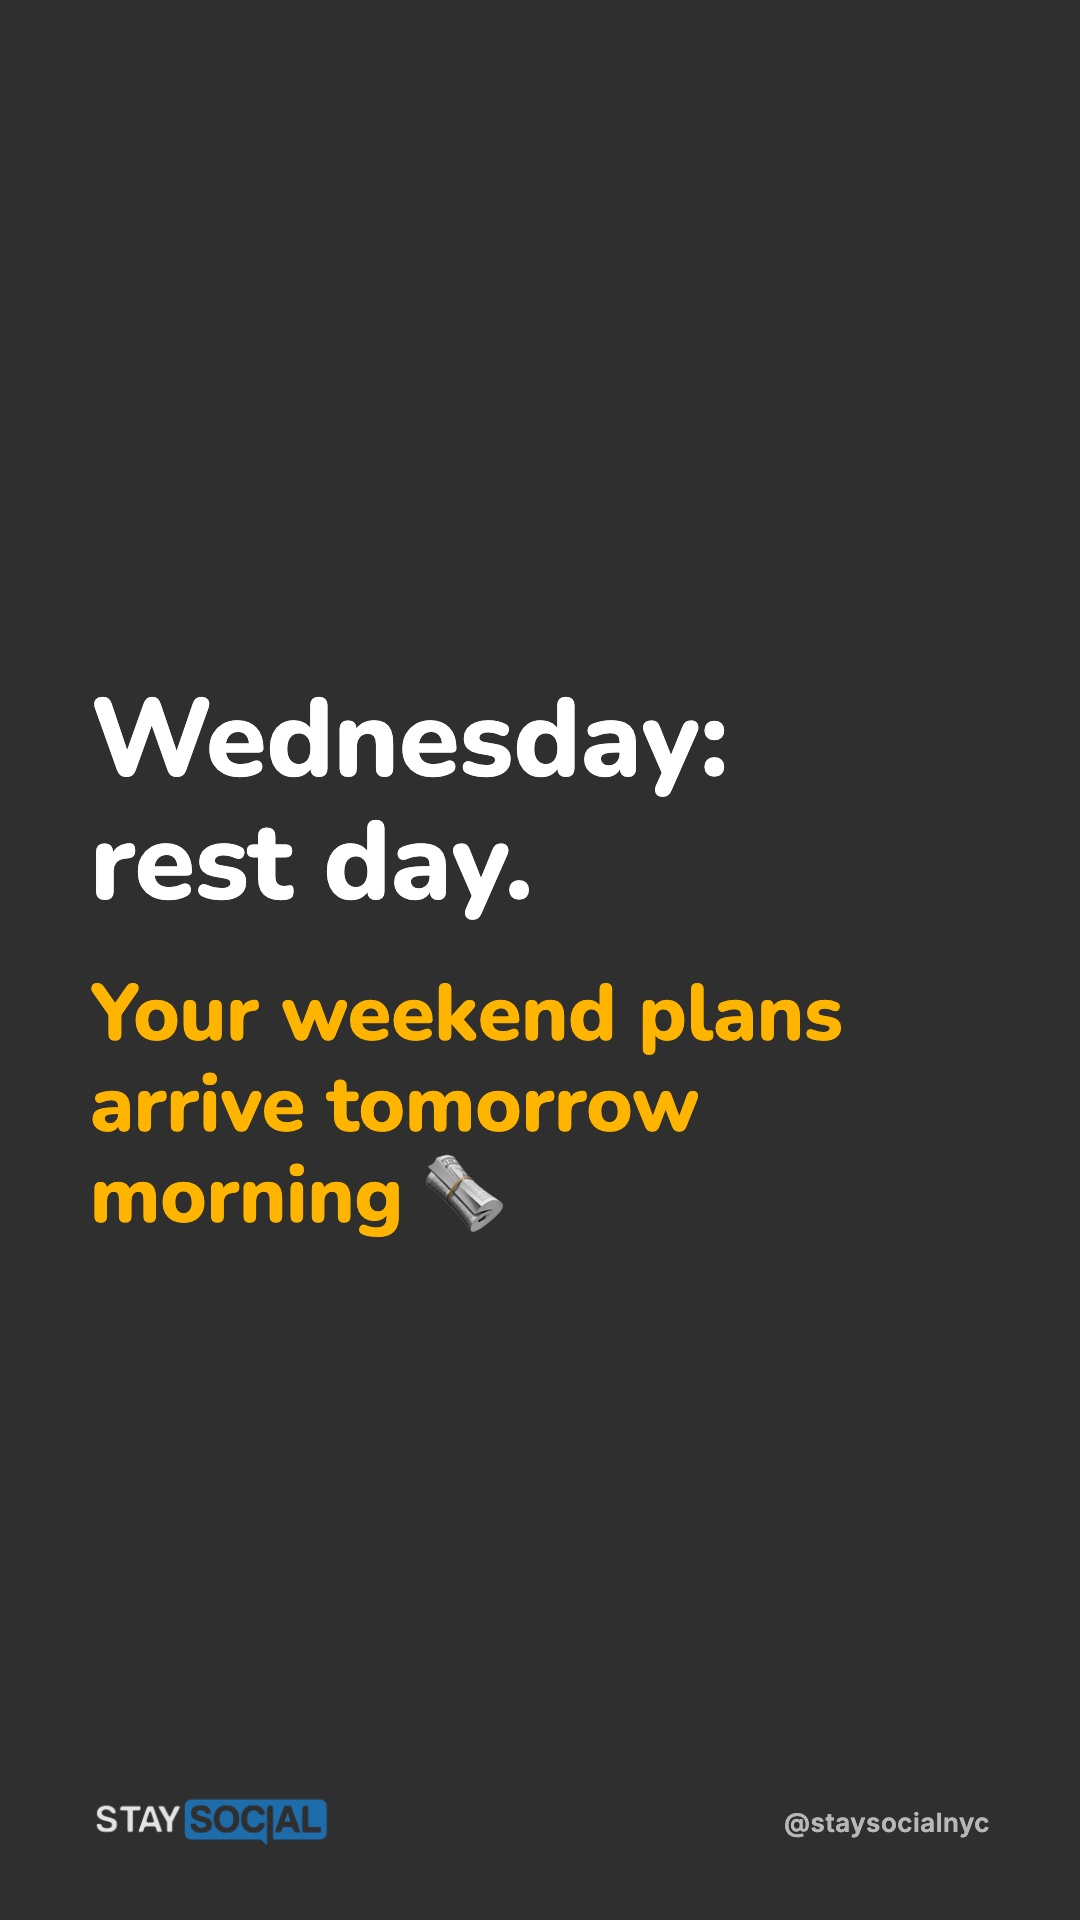
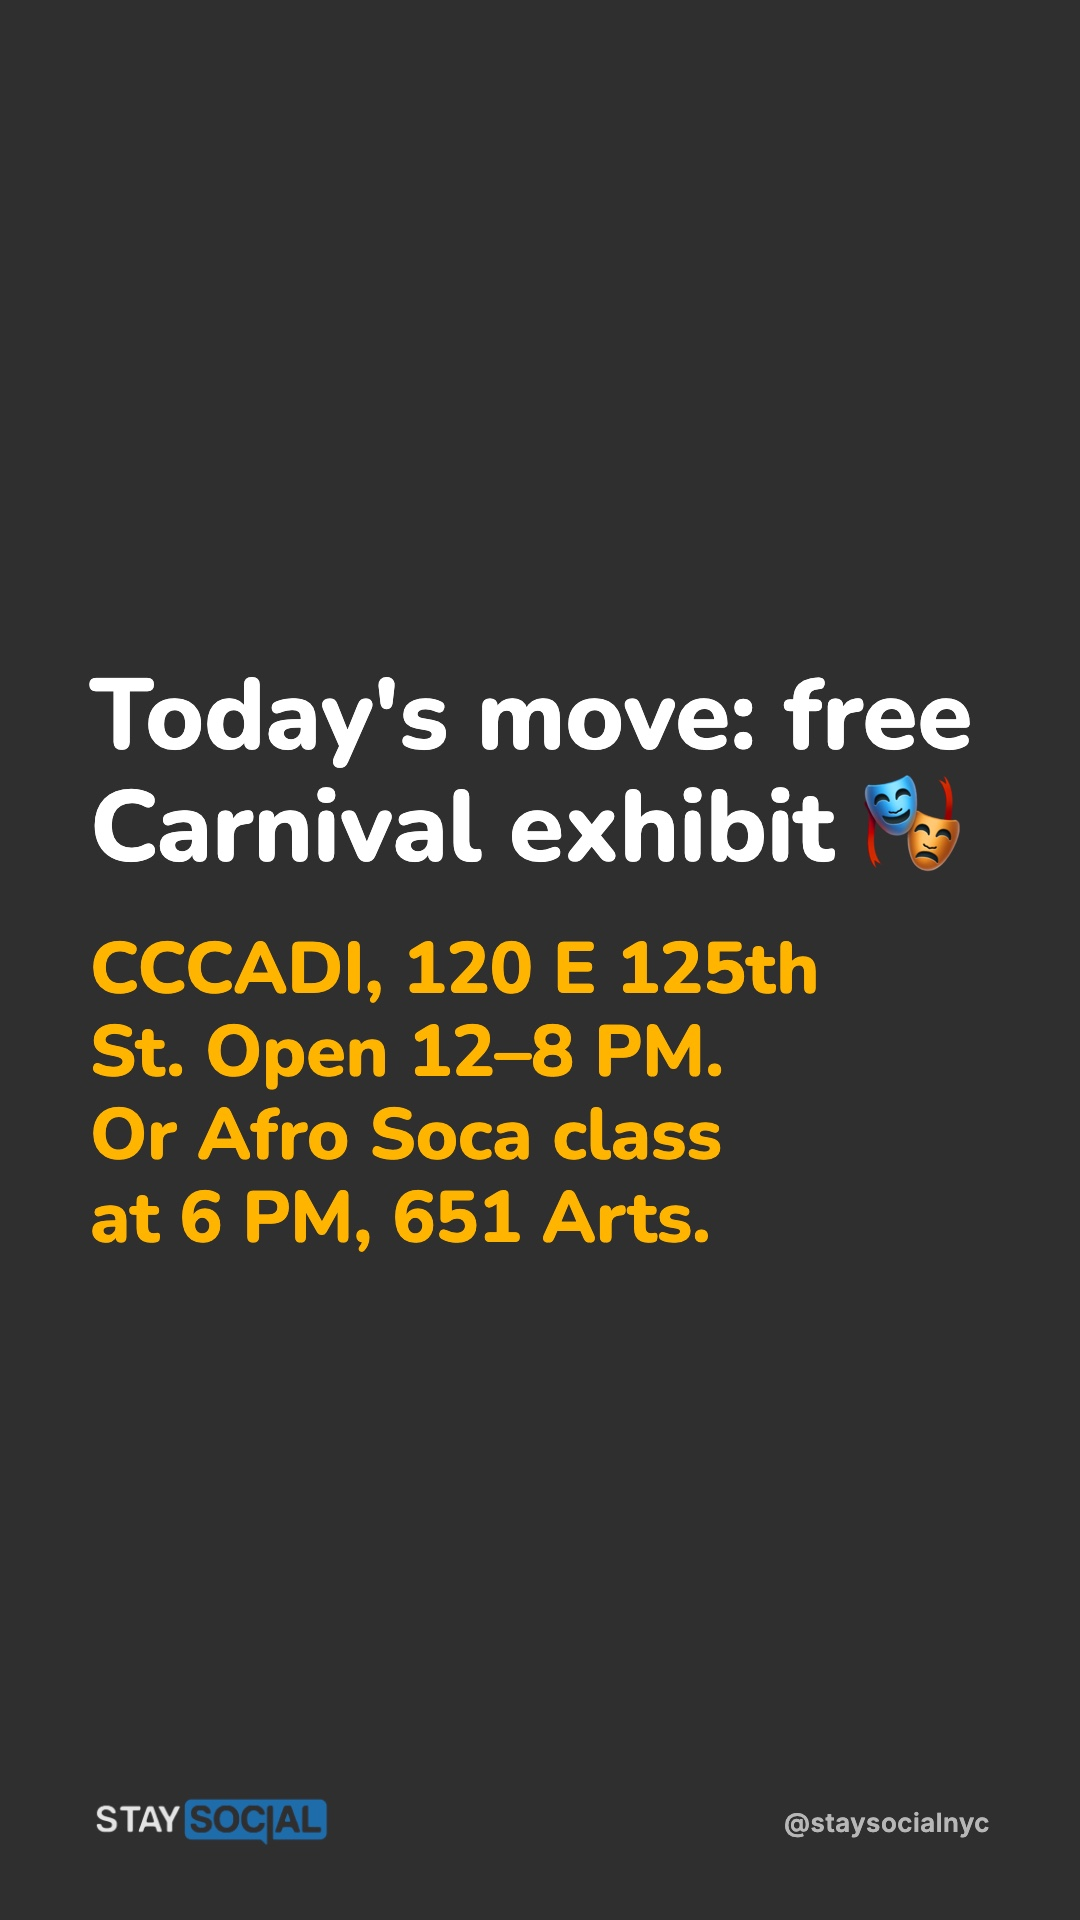
Instagram 2026-10-19: re-rendered

Changed region(s): [[0.0611, 0.3438, 0.9167, 0.6562]]

diff --git a/a/39a5a5ee0c116718e2d83c06/ig/2026-10-19/index.html b/a/39a5a5ee0c116718e2d83c06/ig/2026-10-19/index.html
@@ -10,21 +10,23 @@ pre{white-space:pre-wrap;background:#262526;padding:10px;border-radius:10px;font
 .bar{position:fixed;left:0;right:0;bottom:0;background:#FFB400;color:#302F30;padding:12px 16px calc(12px + env(safe-area-inset-bottom,0px));display:flex;gap:10px;flex-wrap:wrap;justify-content:center;align-items:center}
 .btn{display:inline-block;background:#1F6CAB;color:#fff;padding:9px 18px;border-radius:18px;text-decoration:none;font-weight:700}.btn.w{background:#fff;color:#302F30}
 </style></head><body>
-<h1>Instagram: Mon, Oct 19 – Sun, Oct 25</h1><p>Quiet week: no approved events fall Mon–Wed (all Oct 15 picks were Oct 16–18), so the front half runs on Halloween Book Early (Phantom Fete, Monster Ball, Hallo-Whine — all owner-approved, all future) and Mango Bay for Foodies; Thu–Sun are Wednesday-filled slots from the Oct 22 list. Learnings applied: guide carousels (top format) get an extra slot at Mon 7 PM in place of the POV text Reel, the flopped fill-in-the-blank becomes a hot-take comment post, best-hook structures reused (Monday check-in, 'save this and thank yourself' guide, Foodies opener) — 2 slots changed, within the LOW-confidence limit, both marked as the week's 2 experiments. No clips or photo albums on file.</p><div class="status">Untick anything you don't want posted, then approve by <b>Mon 10:00 AM</b>. Stories approve as one group per day.</div>
+<h1>Instagram: Mon, Oct 19 – Sun, Oct 25</h1><p>Light event week: no approved events fall Mon–Wed (all Oct 15 picks were Oct 16–18), so the front half runs on Halloween Book Early (Phantom Fete, Monster Ball, Hallo-Whine — all owner-approved, all future) and Mango Bay for Foodies; Thu–Sun are Wednesday-filled slots from the Oct 22 list. Learnings applied: guide carousels (top format) get an extra slot at Mon 7 PM in place of the POV text Reel, the flopped fill-in-the-blank becomes a hot-take comment post, best-hook structures reused (Monday check-in, 'save this and thank yourself' guide, Foodies opener) — 2 slots changed, within the LOW-confidence limit, both marked as the week's 2 experiments. No clips or photo albums on file. Mon–Wed rewritten (owner, Oct 18): Caribbean restaurants + experiences from data/ig_places.json instead of 'quiet week' posts.</p><div class="status">Untick anything you don't want posted, then approve by <b>Mon 10:00 AM</b>. Stories approve as one group per day.</div>
 <h2 id="2026-10-19">Mon, Oct 19</h2><article data-id="mon-week-ahead"><header><label class="keep"><input type="checkbox" class="k" value="mon-week-ahead" checked > Post this</label>
-      <span class="kind">carousel · 9 AM</span><span class="goal">Saves</span></header>
-      <div class="strip"><a href="/staysocial-media/ig/2026-10-19/mon-week-ahead-01.jpg" target="_blank"><img src="/staysocial-media/ig/2026-10-19/mon-week-ahead-01.jpg" loading="lazy"></a><a href="/staysocial-media/ig/2026-10-19/mon-week-ahead-02.jpg" target="_blank"><img src="/staysocial-media/ig/2026-10-19/mon-week-ahead-02.jpg" loading="lazy"></a><a href="/staysocial-media/ig/2026-10-19/mon-week-ahead-03.jpg" target="_blank"><img src="/staysocial-media/ig/2026-10-19/mon-week-ahead-03.jpg" loading="lazy"></a></div><pre>New week check-in 🗓 NYC's calendar is quiet Monday to Wednesday — perfect window to sort out Halloween:
+      <span class="kind">carousel · 9 AM</span><span class="goal">Saves + sends</span></header>
+      <div class="strip"><a href="/staysocial-media/ig/2026-10-19/mon-week-ahead-01.jpg" target="_blank"><img src="/staysocial-media/ig/2026-10-19/mon-week-ahead-01.jpg" loading="lazy"></a><a href="/staysocial-media/ig/2026-10-19/mon-week-ahead-02.jpg" target="_blank"><img src="/staysocial-media/ig/2026-10-19/mon-week-ahead-02.jpg" loading="lazy"></a><a href="/staysocial-media/ig/2026-10-19/mon-week-ahead-03.jpg" target="_blank"><img src="/staysocial-media/ig/2026-10-19/mon-week-ahead-03.jpg" loading="lazy"></a></div><pre>Save this for your next craving 📌 Five Caribbean spots worth the trip:
 
-🎃 Fri Oct 30 · Phantom Fete 2026 · Caribbean Cabana, Richmond Hill · 9 PM · $28.52–$33.85
-🎃 Sat Oct 31 · Monster Ball at BiG Room Saturdays · Kiss Nightclub, Richmond Hill · 8 PM · free RSVP
-🎃 Sat Oct 31 · Hallo-Whine · One77 Brooklyn · 10 PM · costumes required (21+)
+🇹🇹 Trinciti Roti Shop @trinciti_ny · 111-03 Lefferts Blvd, South Ozone Park · doubles, bake n shark, dhalpuri roti (family-owned since 2005)
+🇭🇹 Lakou Cafe @lakoucafe · 195 Utica Ave, Crown Heights · Haitian fusion, a Haitian bakery, coffee + cocktails
+🇬🇾 Heat Caribbean Kitchen &amp; Lounge @heat_kitchen · 100-05 Atlantic Ave, Richmond Hill · Guyanese-style chow mein, weekend brunch
+🇯🇲 Peppa's Jerk Chicken · 226-08A Merrick Blvd, Laurelton · jerk chicken + homemade Rasta pasta
+🌴 Kokomo @kokomonyc · 65 Kent Ave, Williamsburg · braised oxtail, Wah Gwaan flatbread (closed Mon–Wed)
 
-Throwing something this week? List it free → link in bio 👆
-New Link Up List lands Thursday morning.
+Which one are you hitting first? 👇 Tag who's coming.
+Hours change, so check each spot's site before you go.
 
-Stay Social lists events; always confirm details on the official ticket page.
+Follow @staysocialnyc for weekly ticket giveaways 🎁
 
-#CaribbeanNYC #SocaNYC #DancehallNYC #NYCFete #HalloweenNYC #CaribbeanHalloween #BrooklynNightlife #QueensNightlife #RichmondHill #WestIndian #StaySocialNYC</pre><p class="meta">Note: No approved events fall Mon–Wed Oct 19–21 (every Oct 15 pick was Oct 16–18), so the post says so and leans on Book Early. Approvals: Phantom Fete from the Oct 1 issue (approved: true); Monster Ball approved as b3 in the Oct 8 page_state; Hallo-Whine approved as b3 in the Oct 15 page_state. Hallo-Whine shows no price because the Oct 14 ticket check found none on the page (the Oct 1 issue's $20–$50 is older). Phantom Fete's 'Early bird ends Thu 9 PM' flag from Oct 1 is stale and left out.</p></article><article data-id="mon-costume-guide"><header><label class="keep"><input type="checkbox" class="k" value="mon-costume-guide" checked > Post this</label>
+#CaribbeanNYC #CaribbeanFood #NYCEats #BrooklynEats #QueensEats #JamaicanFood #TrinidadianFood #HaitianFood #GuyaneseFood #Roti #Doubles #Oxtail #StaySocialNYC</pre><p class="meta">Collab invite: @trinciti_ny (linked from its own website), @lakoucafe (linked from its own website), @kokomonyc (linked from its own website)</p><p class="meta">Note: No approved events fall Mon–Wed Oct 19–21 (every Oct 15 pick was Oct 16–18), so the post says so and leans on Book Early. Approvals: Phantom Fete from the Oct 1 issue (approved: true); Monster Ball approved as b3 in the Oct 8 page_state; Hallo-Whine approved as b3 in the Oct 15 page_state. Hallo-Whine shows no price because the Oct 14 ticket check found none on the page (the Oct 1 issue's $20–$50 is older). Phantom Fete's 'Early bird ends Thu 9 PM' flag from Oct 1 is stale and left out.</p></article><article data-id="mon-costume-guide"><header><label class="keep"><input type="checkbox" class="k" value="mon-costume-guide" checked > Post this</label>
       <span class="kind">carousel · 7 PM</span><span class="goal">Saves + sends</span></header>
       <div class="strip"><a href="/staysocial-media/ig/2026-10-19/mon-costume-guide-01.jpg" target="_blank"><img src="/staysocial-media/ig/2026-10-19/mon-costume-guide-01.jpg" loading="lazy"></a><a href="/staysocial-media/ig/2026-10-19/mon-costume-guide-02.jpg" target="_blank"><img src="/staysocial-media/ig/2026-10-19/mon-costume-guide-02.jpg" loading="lazy"></a><a href="/staysocial-media/ig/2026-10-19/mon-costume-guide-03.jpg" target="_blank"><img src="/staysocial-media/ig/2026-10-19/mon-costume-guide-03.jpg" loading="lazy"></a><a href="/staysocial-media/ig/2026-10-19/mon-costume-guide-04.jpg" target="_blank"><img src="/staysocial-media/ig/2026-10-19/mon-costume-guide-04.jpg" loading="lazy"></a><a href="/staysocial-media/ig/2026-10-19/mon-costume-guide-05.jpg" target="_blank"><img src="/staysocial-media/ig/2026-10-19/mon-costume-guide-05.jpg" loading="lazy"></a><a href="/staysocial-media/ig/2026-10-19/mon-costume-guide-06.jpg" target="_blank"><img src="/staysocial-media/ig/2026-10-19/mon-costume-guide-06.jpg" loading="lazy"></a></div><pre>Costume fete season is here 🎭 The rules, so you don't learn them the hard way:
 
@@ -67,14 +69,18 @@ Stay Social lists events; always confirm details on the official ticket page.
 
 #HalloweenNYC #CaribbeanHalloween #SocaNYC #DancehallNYC #CaribbeanNYC #NYCFete #BrooklynNightlife #QueensNightlife #Gowanus #RichmondHill #FeteLife #StaySocialNYC</pre><p class="meta">Note: Structure mirrors the best-performing post ('Spooky season is booked and busy — save this and thank yourself later', reach 92) with new words. Phantom Fete has no flyer on disk (Oct 1 issue was hand-built), so it stays a list row; Monster Ball and Hallo-Whine flyers are from their issue folders.</p></article><article class="stories"><header><label class="keep"><input type="checkbox" class="k" value="stories-2026-10-20" checked> Post these stories</label><span class="kind">3 stories · 9 AM, 1 PM, 7 PM</span></header>
       <div class="strip"><a href="/staysocial-media/ig/2026-10-19/story-tue-am-01.jpg" target="_blank"><img src="/staysocial-media/ig/2026-10-19/story-tue-am-01.jpg" loading="lazy"></a><a href="/staysocial-media/ig/2026-10-19/story-tue-q-01.jpg" target="_blank"><img src="/staysocial-media/ig/2026-10-19/story-tue-q-01.jpg" loading="lazy"></a><a href="/staysocial-media/ig/2026-10-19/story-tue-pm-01.jpg" target="_blank"><img src="/staysocial-media/ig/2026-10-19/story-tue-pm-01.jpg" loading="lazy"></a></div></article><h2 id="2026-10-21">Wed, Oct 21</h2><article data-id="wed-hot-take"><header><label class="keep"><input type="checkbox" class="k" value="wed-hot-take" checked > Post this</label>
-      <span class="kind">single · 9 AM</span><span class="goal">Comments</span></header>
-      <div class="strip"><a href="/staysocial-media/ig/2026-10-19/wed-hot-take-01.jpg" target="_blank"><img src="/staysocial-media/ig/2026-10-19/wed-hot-take-01.jpg" loading="lazy"></a></div><pre>Hot take: the first hour of the fete is the best hour 😤
+      <span class="kind">carousel · 9 AM</span><span class="goal">Saves + sends</span></header>
+      <div class="strip"><a href="/staysocial-media/ig/2026-10-19/wed-hot-take-01.jpg" target="_blank"><img src="/staysocial-media/ig/2026-10-19/wed-hot-take-01.jpg" loading="lazy"></a><a href="/staysocial-media/ig/2026-10-19/wed-hot-take-02.jpg" target="_blank"><img src="/staysocial-media/ig/2026-10-19/wed-hot-take-02.jpg" loading="lazy"></a><a href="/staysocial-media/ig/2026-10-19/wed-hot-take-03.jpg" target="_blank"><img src="/staysocial-media/ig/2026-10-19/wed-hot-take-03.jpg" loading="lazy"></a></div><pre>Not every link up is a fete 👀 Caribbean NYC, midweek edition:
 
-Fresh outfit, room to dance, the DJ's actually building, drinks reach fast. The 2 AM crowd is wrong on this one.
+🎭 Jab, J'ouvert, Revelry &amp; Resistance @cccadi · 120 E 125th St, East Harlem · free Carnival exhibit, Wed 12–8 PM (Tue/Thu 12–6), on view till Nov 21
+🛍 Flatbush Central Caribbean Marketplace &amp; Food Hall · 2123 Caton Ave, Flatbush · Caribbean vendors Tue–Sat 11 AM–8 PM, plus the food hall
+💃 Afro Soca with Kira Divine @cumbedance · 651 Arts, 10 Lafayette Ave, Fort Greene · Wednesdays 6–7:30 PM
+🇭🇹 Haitian Folkloric Dance with Julio Jean @cumbedance · same spot, Mondays 7:30–9 PM
 
-Agree or argue 👇
+Save this and tag who's coming 👇 Check each place's schedule before you go.
+New Link Up List lands tomorrow morning → link in bio
 
-#CaribbeanNYC #Fete #FeteLife #SocaNYC #DancehallNYC #NYCNightlife #CaribbeanCulture #WestIndian #StaySocialNYC</pre></article><article data-id="wed-bookearly-reel"><header><label class="keep"><input type="checkbox" class="k" value="wed-bookearly-reel" checked > Post this</label>
+#CaribbeanNYC #CaribbeanCulture #Carnival #Soca #HaitianCulture #ThingsToDoNYC #NYCCulture #Flatbush #EastHarlem #StaySocialNYC</pre><p class="meta">Collab invite: @cccadi (linked from its own website), @cumbedance (linked from its own website)</p></article><article data-id="wed-bookearly-reel"><header><label class="keep"><input type="checkbox" class="k" value="wed-bookearly-reel" checked > Post this</label>
       <span class="kind">reel · 7 PM</span><span class="goal">Saves + reach</span></header>
       <div class="strip"><video src="/staysocial-media/ig/2026-10-19/wed-bookearly-reel.mp4" controls playsinline muted loop preload="metadata"></video><a href="/staysocial-media/ig/2026-10-19/wed-bookearly-reel-01.jpg" target="_blank"><img src="/staysocial-media/ig/2026-10-19/wed-bookearly-reel-01.jpg" loading="lazy"></a><a href="/staysocial-media/ig/2026-10-19/wed-bookearly-reel-02.jpg" target="_blank"><img src="/staysocial-media/ig/2026-10-19/wed-bookearly-reel-02.jpg" loading="lazy"></a><a href="/staysocial-media/ig/2026-10-19/wed-bookearly-reel-03.jpg" target="_blank"><img src="/staysocial-media/ig/2026-10-19/wed-bookearly-reel-03.jpg" loading="lazy"></a><a href="/staysocial-media/ig/2026-10-19/wed-bookearly-reel-04.jpg" target="_blank"><img src="/staysocial-media/ig/2026-10-19/wed-bookearly-reel-04.jpg" loading="lazy"></a><a href="/staysocial-media/ig/2026-10-19/wed-bookearly-reel-05.jpg" target="_blank"><img src="/staysocial-media/ig/2026-10-19/wed-bookearly-reel-05.jpg" loading="lazy"></a></div><pre>Halloween is 10 days out 🎃 Lock these in:
 
